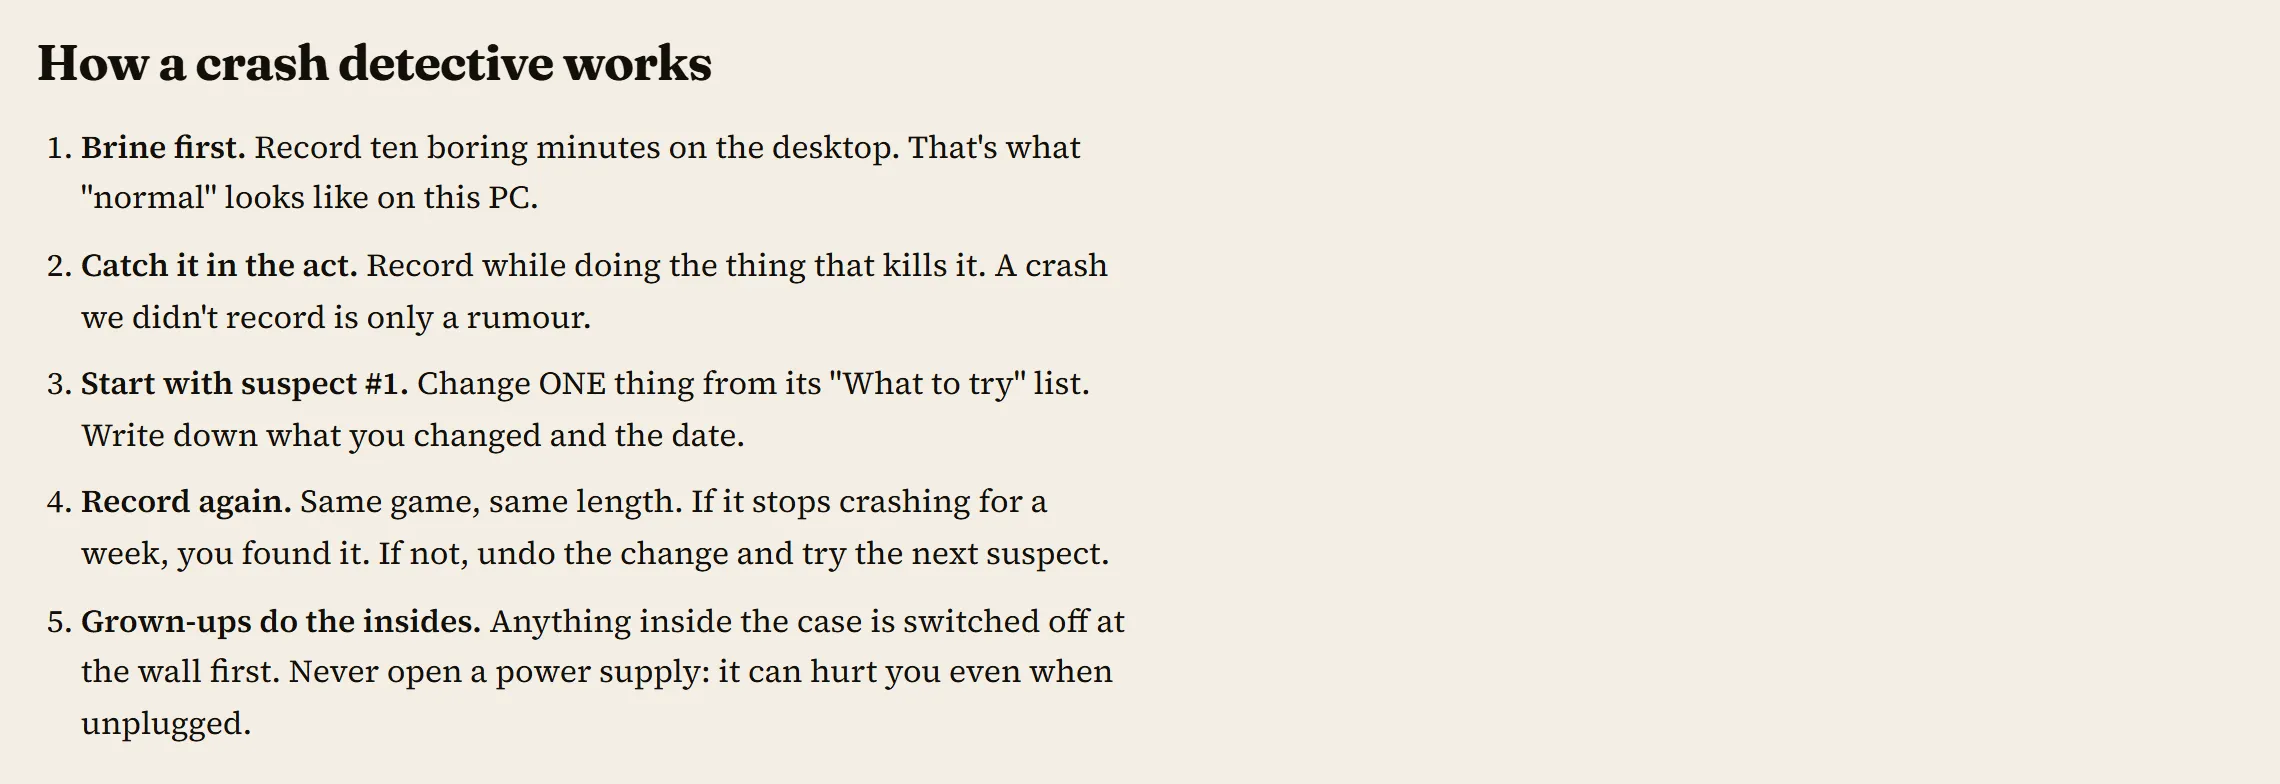
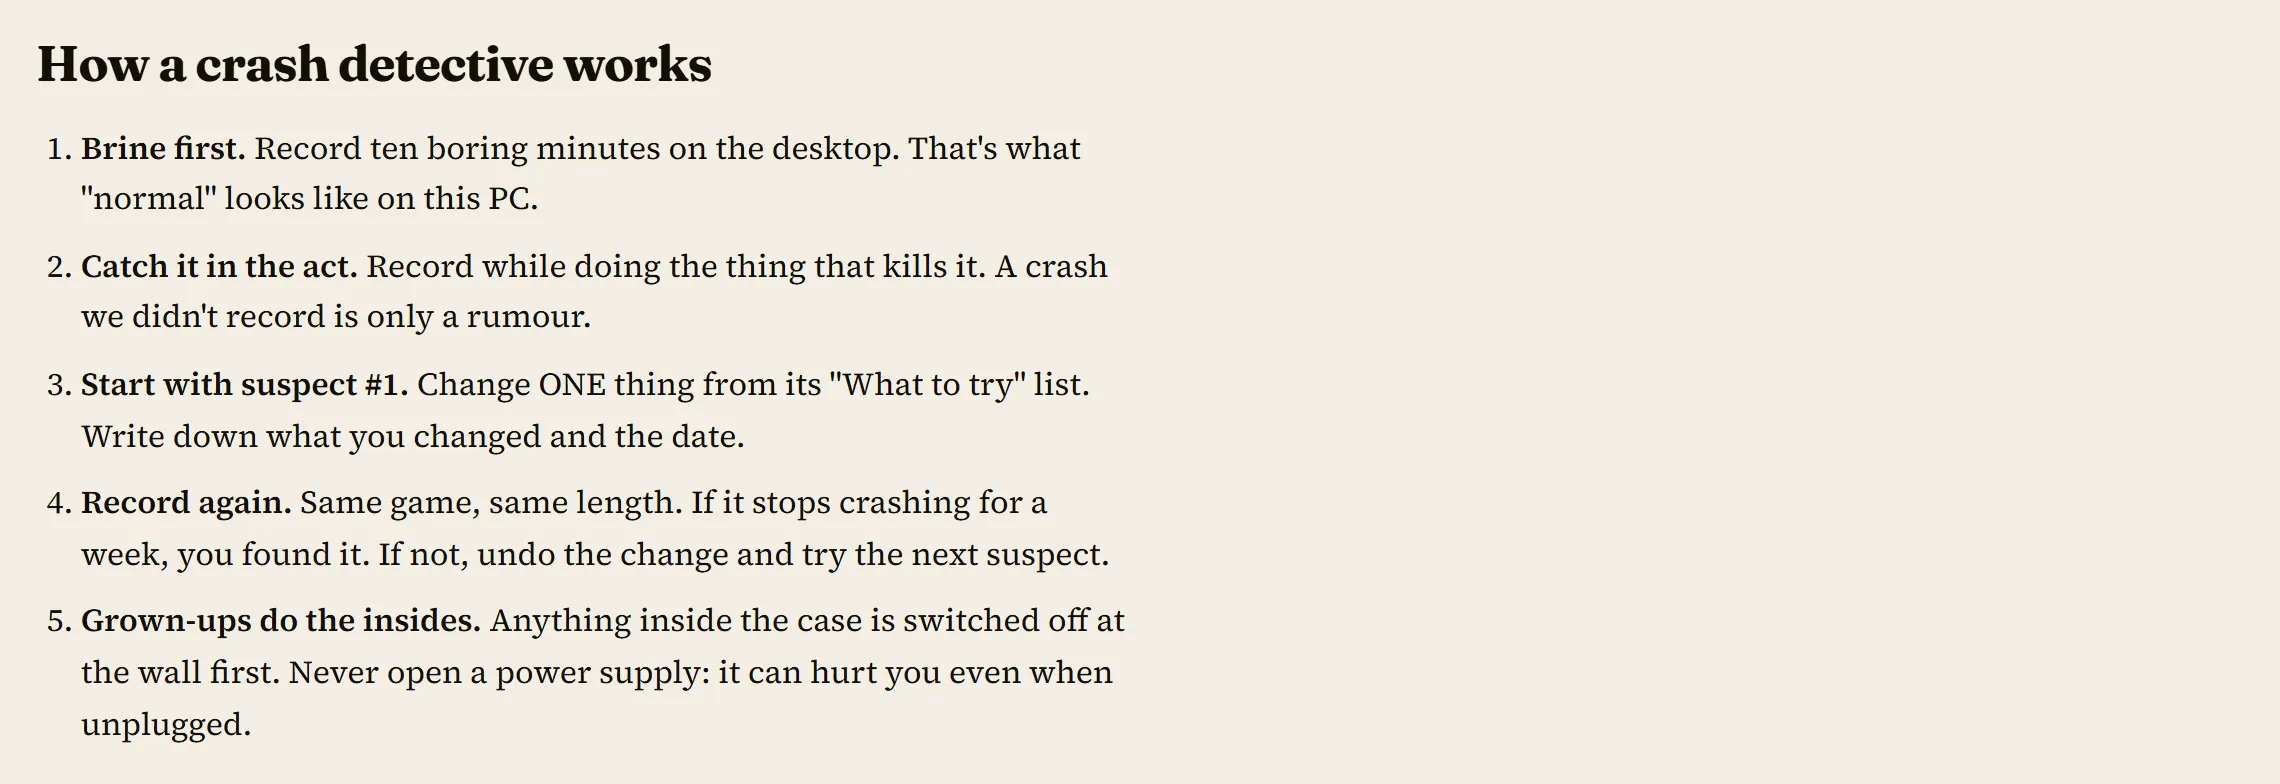
Crash Kitchen: real-data slides, dedupe Windows reports, kgffc hostname
- FAQ shows a real 35-minute Destiny 2 session (verdict, replay) next to
  clearly tagged demo slides for the crash, suspects and clues
- Windows re-logs queued error reports every ~4 hours; reports are now
  identified by problem signature so each real event counts once, and
  repeats fold into one clues row with a count
- New amber check for graphics driver timeouts (LiveKernelEvent 141,
  117, 116) logged in the last 14 days
- Fix: the source file name was blank when picked with the file button
- Kit: the PC's name is written as "kgffc" instead of "~"

diff --git a/public/crash/faq.html b/public/crash/faq.html
@@ -14,7 +14,7 @@
 <meta property="og:title" content="Crash Kitchen FAQ: why does the PC keep switching off?">
 <meta property="og:description" content="Record it, plate it, drop it. The Crisp-o-Meter rates the session and lines up the crash suspects. Nothing is uploaded.">
 <meta property="og:url" content="https://kgffc.net/crash/faq.html">
-<meta property="og:image" content="https://kgffc.net/crash/img/03-verdict.webp">
+<meta property="og:image" content="https://kgffc.net/crash/img/06-demo-crash.webp">
 <link rel="stylesheet" href="/css/style.css">
 <link rel="stylesheet" href="crash.css">
 </head>
@@ -60,7 +60,7 @@
     <h1>How the Crash Kitchen works</h1>
     <p class="lede">A PC in our house kept switching itself off. No blue screen, no warning: just dark, usually right as a game was loading, sometimes deep in Photoshop. The Crash Kitchen is how we catch it in the act. It is free, it installs nothing, and your file never leaves your computer.</p>
     <p class="faq-cta"><a class="cta-outline" href="/crash/">Open the Crash Kitchen</a> <a class="link-arrow" href="/crash/#demo=crash">Try the crash demo →</a></p>
-    <p class="hint">Every screenshot on this page is the built-in demo, made-up data shaped like a real sudden power-off.</p>
+    <p class="hint">Screenshots marked "Real data" are a 35-minute Destiny 2 session on our own PC. The ones marked "Demo data" are the built-in demo, a simulated sudden power-off.</p>
 
     <nav class="faq-toc" aria-label="Questions">
       <ol>
@@ -84,8 +84,8 @@
     <section id="what">
       <h2>What is it?</h2>
       <p>Two double-click files that record what your PC is doing about once a second, and a web page that turns the recording into a verdict. The Crisp-o-Meter rates how hard and hot the PC ran. If it crashed, you get a line-up of the most likely suspects with the evidence for each one and what to try first.</p>
-      <figure><img src="img/03-verdict.webp" width="1140" height="687" alt="The Crisp-o-Meter at 7, Gluttened, 100 out of 100: 'The PC crashed.' Below: 26 minutes recorded, peak CPU 78°C, peak graphics 72°C, lowest 12 V 11.44 V, 3 crashes in the log, and checks showing both 12-volt readings sagged while temperatures were fine." loading="lazy">
-        <figcaption>The verdict for a sudden power-off: Gluttened, with the 12-volt supply flagged and the temperatures cleared.</figcaption></figure>
+      <figure><img src="img/06-demo-crash.webp" width="1140" height="788" alt="Demo data: the Crisp-o-Meter at 7, Gluttened, 100 out of 100: 'The PC crashed.' Below: 26 minutes recorded, peak CPU 78°C, peak graphics 72°C, lowest 12 V 11.44 V, 3 crashes in the log, and checks showing both 12-volt readings sagged while temperatures were fine." loading="lazy">
+        <figcaption>Demo data: the verdict for a simulated sudden power-off. Gluttened, with the 12-volt supply flagged and the temperatures cleared.</figcaption></figure>
     </section>
 
     <section id="how">
@@ -114,15 +114,15 @@
         <li><b>Gluttened</b> It died: the PC crashed during the recording, or Windows logged a fatal hardware error.</li>
       </ol>
       <p>The score adds up how hard the PC worked (CPU and graphics load), how close it got to its temperature limits (it knows each CPU's limit, like 89°C for a Ryzen 7 7800X3D), and every warning it found. A healthy PC never scores Gluttened, however hard you push it.</p>
-      <figure><img src="img/07-healthy.webp" width="1140" height="806" alt="A healthy session: Crisp-o-Meter at 4, Cooked, 51 out of 100, 'Cooked through, perfectly', with every check marked Fine and the note 'Your hardware is awesome. Santa can put his feet up this year.'" loading="lazy">
-        <figcaption>A healthy gaming session lands on Cooked, and Santa stays home.</figcaption></figure>
+      <figure><img src="img/03-real-verdict.webp" width="1140" height="801" alt="A real 35-minute Destiny 2 session: Crisp-o-Meter at 3, Breaded, 26 out of 100, 'Real work at comfortable temperatures. This is a healthy PC.' Peak graphics 64°C and no crashes; CPU temperature and 12 V show 'not recorded', with notes explaining HWiNFO is needed to see them. 'Your hardware is awesome. Santa can put his feet up this year.'" loading="lazy">
+        <figcaption>Real data: 35 minutes of Destiny 2 on our own PC. Breaded, and it says plainly what it couldn't see. (Windows event details left out for privacy.)</figcaption></figure>
     </section>
 
     <section id="suspects">
       <h2>How does it pick the suspects?</h2>
       <p>Like a detective's points board. Each suspect (power supply, CPU overheating, graphics card, graphics driver, RAM and its EXPO/XMP speed, BIOS settings, motherboard, SSD, software) starts with points for the <em>kind</em> of crash. An instant power-off points at power; a freeze points at drivers and RAM; a blue screen's code points wherever that code usually points. Then the evidence adds points (the 12-volt supply sagged, the load jumped just before the end, the CPU hit its limit) and evidence against takes them away (the graphics card was cool, 72°C, in its last minute). Every point comes with its reason written out, so you can check our working.</p>
-      <figure><img src="img/04-suspects.webp" width="1140" height="792" alt="Suspect number 1: Power supply or its cables, 70% of the evidence, Strong lead, with eight reasons such as 'Load jumped from 29% to 100% just before it died, like a game loading in' and four things to try, ending with 'borrow a known-good power supply for a week.'" loading="lazy">
-        <figcaption>The top suspect, its share of the evidence, the reasons, and what to try.</figcaption></figure>
+      <figure><img src="img/07-demo-suspects.webp" width="1140" height="893" alt="Demo data: suspect number 1: Power supply or its cables, 70% of the evidence, Strong lead, with eight reasons such as 'Load jumped from 29% to 100% just before it died, like a game loading in' and four things to try, ending with 'borrow a known-good power supply for a week.'" loading="lazy">
+        <figcaption>Demo data: the top suspect, its share of the evidence, the reasons, and what to try.</figcaption></figure>
     </section>
 
     <section id="sure">
@@ -133,15 +133,15 @@
     <section id="replay">
       <h2>What is the replay for?</h2>
       <p>Watching the last minutes like a game replay. Six gauges and up to ten charts share one time cursor: press Play, drag the slider, or hover any chart. Red dashed lines are limits (like the CPU's temperature limit or the 11.40 V minimum for a 12-volt supply); the red "died" line is the crash.</p>
-      <figure><img src="img/05-replay.webp" width="1140" height="825" alt="The replay panel: gauges for CPU load, graphics load, CPU temperature, graphics hot spot, 12 V supply (11.45 V, LOW) and graphics power, then charts showing the load jumping to 100% and the 12-volt supply dropping toward 11.40 V right before the red 'died' line." loading="lazy">
-        <figcaption>The load jumps, the 12-volt supply sags, and then the "died" line.</figcaption></figure>
+      <figure><img src="img/04-real-replay.webp" width="1140" height="845" alt="The replay of a real Destiny 2 session, paused at its busiest moment: gauges read CPU 30%, graphics 73%, graphics 64°C and 175 W, all fine; the busiest app is destiny2; charts show load, graphics temperature, power and clock speeds rising when the game starts." loading="lazy">
+        <figcaption>Real data: the Destiny 2 session paused at its busiest moment. On a crash, a red "died" line marks the end.</figcaption></figure>
     </section>
 
     <section id="clues">
       <h2>Where do the crash clues come from?</h2>
       <p>Windows' own event log, which 2-PLATE-IT copies for the last 14 days: sudden restarts, blue screens and their codes, hardware errors (WHEA), graphics driver resets, disk errors, and apps that crashed. The page translates each into plain English. The raw source and ID sit next to it, for the grown-ups.</p>
-      <figure><img src="img/06-clues.webp" width="1140" height="594" alt="The crash clues table: three 'Restarted after a sudden power loss' rows in red, each paired with 'Windows noticed the last shutdown was unexpected', plus one Photoshop app crash." loading="lazy">
-        <figcaption>Three sudden power losses in ten days: a pattern, not a one-off.</figcaption></figure>
+      <figure><img src="img/05-demo-clues.webp" width="1140" height="685" alt="Demo data: the crash clues table: three 'Restarted after a sudden power loss' rows in red, each paired with 'Windows noticed the last shutdown was unexpected', plus one Photoshop app crash." loading="lazy">
+        <figcaption>Demo data: three sudden power losses in ten days, a pattern, not a one-off. Repeated reports fold into one row with a count.</figcaption></figure>
     </section>
 
     <section id="next">

diff --git a/public/crash/main.js b/public/crash/main.js
@@ -2,7 +2,7 @@
 // sets connect-src 'none', so even a bug could not send it anywhere. Nothing from the file is ever
 // put into innerHTML; every string goes through textContent.
 import { readFile, parseText, merge, FileError, at, clean, appName } from "./parse.js";
-import { rate, stat, LEVELS } from "./rate.js";
+import { rate, stat, LEVELS, isGpuReset } from "./rate.js";
 import { View, TimeChart, Gauge, meter, el, fmt, clockText } from "./charts.js";
 import { demoPlate } from "./demo.js";
 
@@ -14,9 +14,10 @@ let charts = [], view = null, playing = false;
 async function loadFiles(files) {
   busy(true);
   try {
+    const list = [...files].slice(0, 6); // copy now: the picker is cleared while we read
     const sets = [];
-    for (const file of [...files].slice(0, 6)) sets.push(parseText(await readFile(file), file.name));
-    show(merge(sets), clean([...files].map((f) => f.name).join(", "), 80));
+    for (const file of list) sets.push(parseText(await readFile(file), file.name));
+    show(merge(sets), clean(list.map((f) => f.name).join(", "), 80));
   } catch (e) { fail(e); } finally { busy(false); }
 }
 function loadText(text, name) {
@@ -210,18 +211,31 @@ function describe(e) {
   if ((p === "Display" && id === 4101) || /nvlddmkm|amdkmdag/.test(p)) return ["fail", "Graphics driver crashed or reset"];
   if (/^(disk|stornvme|storahci|Microsoft-Windows-Ntfs|volmgr)$/.test(p)) return [e.level <= 2 ? "fail" : "warn", p === "volmgr" ? "Crash dump could not be saved" : "Disk or storage problem"];
   if (p === "Application Error") return ["warn", `App crashed: ${appName(e.data.get("P0") || e.data.get("AppName")) || "an app"}`];
-  if (p === "Windows Error Reporting") return ["warn", /BlueScreen/.test(e.msg) ? "Blue screen report" : "Hardware hiccup (LiveKernelEvent)"];
+  if (p === "Windows Error Reporting") {
+    if (/BlueScreen/.test(e.msg)) return ["fail", "Blue screen report"];
+    const c = (e.data.get("P1") || "").toLowerCase();
+    const code = /^[0-9a-f]{1,8}$/.test(c) ? c : "?";
+    return ["warn", isGpuReset(e) ? `Graphics driver stopped responding, then recovered (LiveKernelEvent ${code})` : `Hardware hiccup reported (LiveKernelEvent ${code})`];
+  }
   return null;
 }
 function clues(ds) {
-  const rows = [];
-  for (const e of ds.events) { const d = describe(e); if (d) rows.push([e, ...d]); }
+  // Repeats fold into one row with a count; each crash (Kernel-Power 41 / 6008) keeps its own row.
+  const rows = [], groups = new Map();
+  for (const e of ds.events) {
+    const d = describe(e); if (!d) continue;
+    const k = /Kernel-Power$/.test(e.provider) || e.id === 6008 ? null : d[1];
+    const g = k && groups.get(k);
+    if (g) { g[0] = e; g[4]++; continue; }
+    const row = [e, d[0], d[1], e.t, 1]; rows.push(row); if (k) groups.set(k, row);
+  }
+  rows.sort((a, b) => a[0].t - b[0].t);
   const body = $("clues");
-  body.replaceChildren(...rows.slice(-150).reverse().map(([e, sev, what]) => {
+  body.replaceChildren(...rows.slice(-150).reverse().map(([e, sev, what, first, n]) => {
     const tr = el("tr", sev);
     const s = el("td"); s.append(el("span", `pill ${sev}`, SYM[sev]));
-    const w = el("td"); w.append(el("b", null, what), el("small", null, ` ${e.provider} ${e.id}`));
-    tr.append(s, el("td", "num", when(e.t)), w, el("td", "msg", e.msg || [...e.data].map(([k, v]) => `${k}=${v}`).join("; ")));
+    const w = el("td"); w.append(el("b", null, n > 1 ? `${what} ×${n}` : what), el("small", null, ` ${e.provider} ${e.id}`));
+    tr.append(s, el("td", "num", n > 1 ? `${when(first)} → ${when(e.t)}` : when(e.t)), w, el("td", "msg", e.msg || [...e.data].map(([k, v]) => `${k}=${v}`).join("; ")));
     return tr;
   }));
   if (!rows.length) { const tr = el("tr"); const td = el("td", null, ds.sources.has("Windows event log") ? "No crash clues in Windows' logs. Good news." : "This file has no Windows clues (use the plate file from 2-PLATE-IT)."); td.colSpan = 4; tr.append(td); body.append(tr); }

diff --git a/public/crash/rate.js b/public/crash/rate.js
@@ -73,6 +73,12 @@ const clamp = (x) => Math.max(0, Math.min(1, x));
 const r0 = (x) => Math.round(x);
 const r2 = (x) => (Math.round(x * 100) / 100).toFixed(2);
 
+// Graphics driver timeouts: Display 4101, NVIDIA/AMD driver errors, and Windows' own hardware reports
+// (LiveKernelEvent 141 VIDEO_ENGINE_TIMEOUT, 117 VIDEO_TDR_TIMEOUT, 116 VIDEO_TDR_FAILURE).
+const GPU_LKE = new Set(["141", "117", "116"]);
+export const isGpuReset = (e) => (e.provider === "Display" && e.id === 4101) || /nvlddmkm|amdkmdag/.test(e.provider)
+  || (e.provider === "Windows Error Reporting" && e.data.get("EventName") === "LiveKernelEvent" && GPU_LKE.has((e.data.get("P1") || "").toLowerCase()));
+
 export function cpuLimit(name = "") {
   const n = name.toUpperCase();
   if (/9\d{3}X3D/.test(n)) return 95;
@@ -191,6 +197,8 @@ export function rate(ds) {
     if ((e.provider === "Display" && e.id === 4101) || /nvlddmkm|amdkmdag/.test(e.provider)) flag("fail", "The graphics driver crashed and restarted", "gpuDrv");
   }
   if (fatalInRec.length) flag("fail", "Windows logged a FATAL hardware error (WHEA 18)", "cpuTune");
+  const resets = ds.events.filter(isGpuReset).length;
+  if (resets) flag("warn", `Windows logged ${resets} graphics driver timeout${resets > 1 ? "s" : ""} in the last 14 days (it recovered each time). Worth a clean driver install`, "gpuDrv");
 
   // ---- the Crisp-o-Meter
   const load = Math.max(all("cpu_pct")?.p95 ?? 0, all("gpu_pct")?.p95 ?? 0);
@@ -244,7 +252,7 @@ function board(ds, crash, recorded, rec, tj) {
   if (bus) { add("ram", Math.min(3, 1 + bus), `${bus} memory-bus hardware error(s) (WHEA Bus/Interconnect): often an unstable EXPO/XMP RAM speed`); add("cpuTune", 1, null); }
   if (pcie) { add("gpuHw", 1, `${pcie} PCI Express link error(s): graphics card seating, slot or riser cable`); add("board", 1, null); }
   if (mem47) add("ram", 2, `${mem47} corrected memory error(s) (WHEA 47)`);
-  const tdr = count((e) => (e.provider === "Display" && e.id === 4101) || /nvlddmkm|amdkmdag/.test(e.provider) || (e.provider === "Windows Error Reporting" && /LiveKernelEvent/.test(e.msg)));
+  const tdr = count(isGpuReset);
   if (tdr) { add("gpuDrv", Math.min(4, 1 + tdr / 2), `${tdr} graphics driver crash/reset clue(s) in the Windows log`); add("gpuHw", 1, null); }
   const disk = count((e) => /^(disk|stornvme|storahci|Microsoft-Windows-Ntfs)$/.test(e.provider) && e.level <= 3);
   if (disk) add("disk", Math.min(4, 1 + disk / 2), `${disk} disk warning/error clue(s) in the Windows log`);

diff --git a/public/crash/parse.js b/public/crash/parse.js
@@ -328,8 +328,13 @@ export function merge(sets) {
       for (const [k, v] of bag) if (!into.has(k) || into.get(k).t.length < v.t.length) into.set(k, v);
     }
   }
+  // Windows re-logs every queued error report each time it retries sending it (about every 4 hours), so a
+  // report is identified by its problem signature, not its timestamp: each real event is kept once, first seen.
   const seen = new Set();
-  ds.events = ds.events.filter((e) => { const k = `${e.t}|${e.provider}|${e.id}`; if (seen.has(k)) return false; seen.add(k); return true; }).sort((a, b) => a.t - b.t);
+  const key = (e) => (e.provider === "Windows Error Reporting" && e.data.has("P1")
+    ? `wer|${["EventName", "P1", "P2", "P3", "P5"].map((k) => e.data.get(k) || "").join("|")}`
+    : `${e.t}|${e.provider}|${e.id}`);
+  ds.events = ds.events.sort((a, b) => a.t - b.t).filter((e) => { const k = key(e); if (seen.has(k)) return false; seen.add(k); return true; });
   derive(ds);
   return ds;
 }
